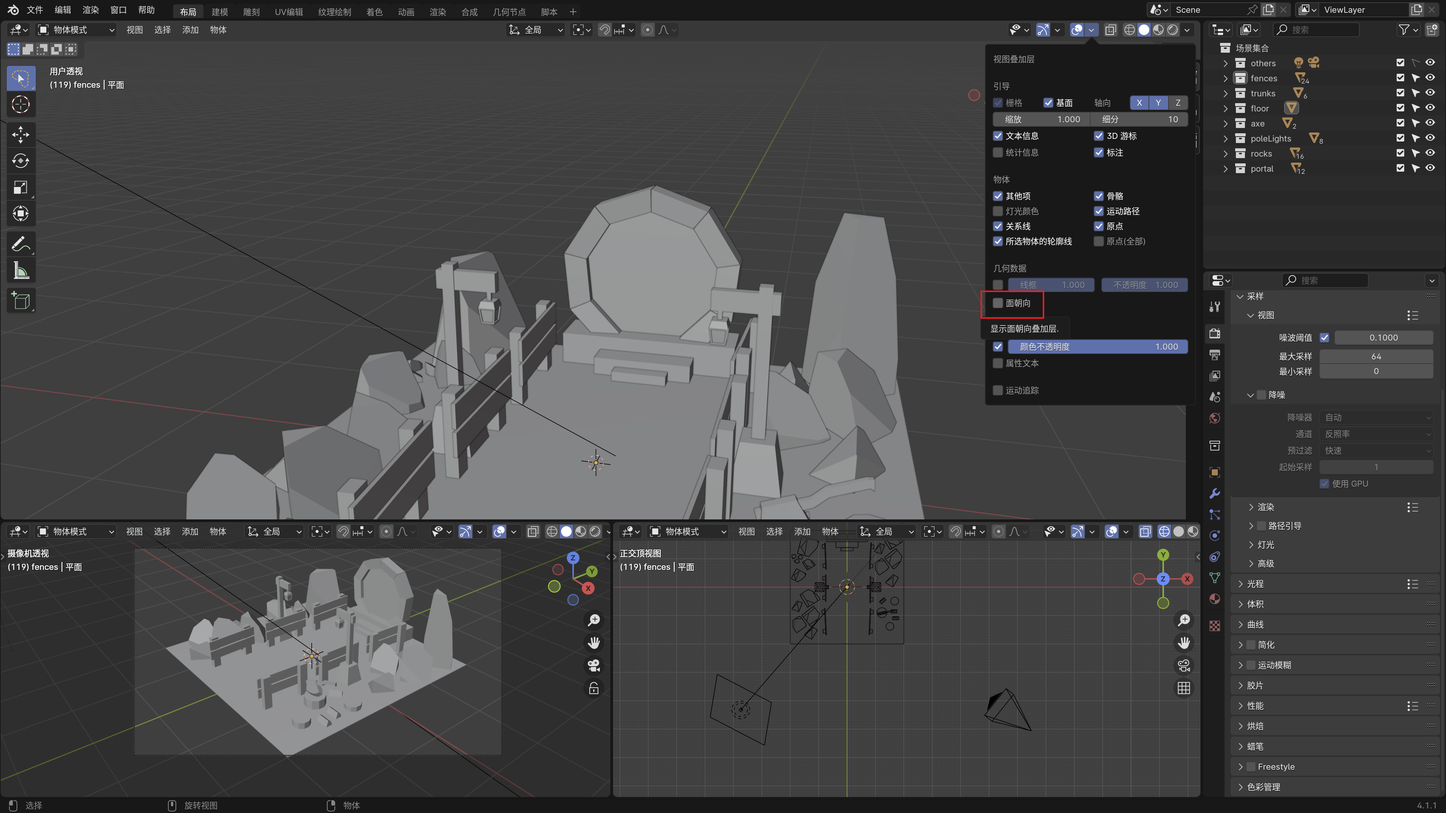
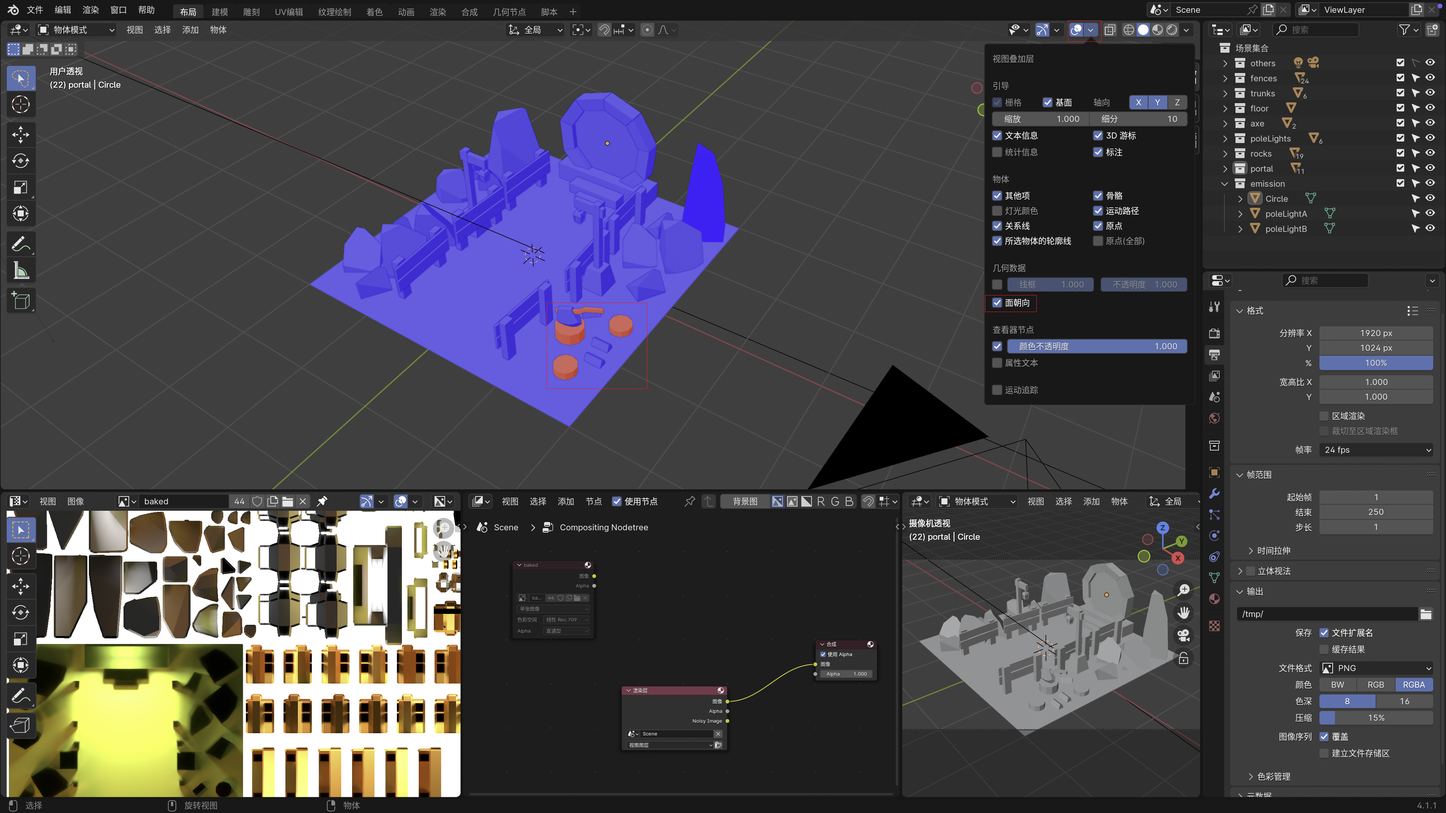
P53 Importing an optimizing the scene

diff --git a/src/components/HelloWorld.vue b/src/components/HelloWorld.vue
@@ -168,6 +168,7 @@ onMounted(() => {
   // renderer.shadowMap.type = THREE.PCFSoftShadowMap;
   // renderer.toneMapping = THREE.ReinhardToneMapping;
   // renderer.toneMappingExposure = 3;
+  renderer.outputColorSpace = THREE.SRGBColorSpace;
   webgl.value!.appendChild(renderer.domElement);
 
   // 4. 创建自定义幕布（Overlay）
@@ -190,7 +191,7 @@ onMounted(() => {
     `,
   });
   const overlay = new THREE.Mesh(overlayGeometry, overlayMaterial);
-  // scene.add(overlay);
+  scene.add(overlay);
 
   // 5. 创建加载管理器
   let sceneReady = false;
@@ -250,39 +251,64 @@ onMounted(() => {
   // scene.environment = environmentMap;
 
   // 模型mesh==========================
-  // 8. 加载3D模型
-  // const modelPath = `${
-  //   import.meta.env.BASE_URL
-  // }models/DamagedHelmet/glTF/DamagedHelmet.gltf`; // 文件路径：/public/models/Duck
-  // gltfLoader.load(
-  //   modelPath,
-  //   // 加载成功回调
-  //   (gltf) => {
-  //     gltf.scene.scale.set(2.5, 2.5, 2.5);
-  //     gltf.scene.rotation.y = Math.PI * 0.5;
-  //     scene.add(gltf.scene);
-
-  //     updateAllMaterials(scene);
-  //   },
-  //   // 加载进度回调
-  //   (xhr) => {
-  //     console.log((xhr.loaded / xhr.total) * 100 + "% loaded");
-  //   },
-  //   // 加载错误回调
-  //   (error) => {
-  //     console.error("加载失败：", error);
-  //   }
-  // );
+  /**
+   * Textures
+   */
+  const bakedTexture = texturesLoader.load(
+    `${import.meta.env.BASE_URL}models/portal/baked.jpg`
+  );
+  bakedTexture.flipY = false;
+  bakedTexture.colorSpace = THREE.SRGBColorSpace;
 
   /**
-   * Object
+   * Materials
    */
-  const cube = new THREE.Mesh(
-    new THREE.BoxGeometry(1, 1, 1),
-    new THREE.MeshBasicMaterial()
-  );
+  const bakedMaterial = new THREE.MeshBasicMaterial({ map: bakedTexture });
 
-  scene.add(cube);
+  // Portal light material
+  const portalLightMaterial = new THREE.MeshBasicMaterial({ color: 0xffffff });
+
+  // Pole light material
+  const poleLightMaterial = new THREE.MeshBasicMaterial({ color: 0xffcb90 });
+
+  // 8. 加载3D模型
+  const modelPath = `${import.meta.env.BASE_URL}models/portal/portal.glb`; // 文件路径：/public/models/Duck
+  gltfLoader.load(
+    modelPath,
+    // 加载成功回调
+    (gltf) => {
+      const bakedMesh = gltf.scene.children.find(
+        (child) => child.name === "baked"
+      );
+      const portalLightMesh = gltf.scene.children.find(
+        (child) => child.name === "portalLight"
+      );
+      const poleLightAMesh = gltf.scene.children.find(
+        (child) => child.name === "poleLightA"
+      );
+      const poleLightBMesh = gltf.scene.children.find(
+        (child) => child.name === "poleLightB"
+      );
+
+      bakedMesh.material = bakedMaterial;
+      poleLightAMesh.material = poleLightMaterial;
+      poleLightBMesh.material = poleLightMaterial;
+      portalLightMesh.material = portalLightMaterial;
+
+      console.log(gltf.scene);
+      scene.add(gltf.scene);
+
+      // updateAllMaterials(gltf.scene);
+    },
+    // 加载进度回调
+    (xhr) => {
+      console.log((xhr.loaded / xhr.total) * 100 + "% loaded");
+    },
+    // 加载错误回调
+    (error) => {
+      console.error("加载失败：", error);
+    }
+  );
   // 模型mesh==========================
   // 9. 创建相机
   camera = new THREE.PerspectiveCamera(
